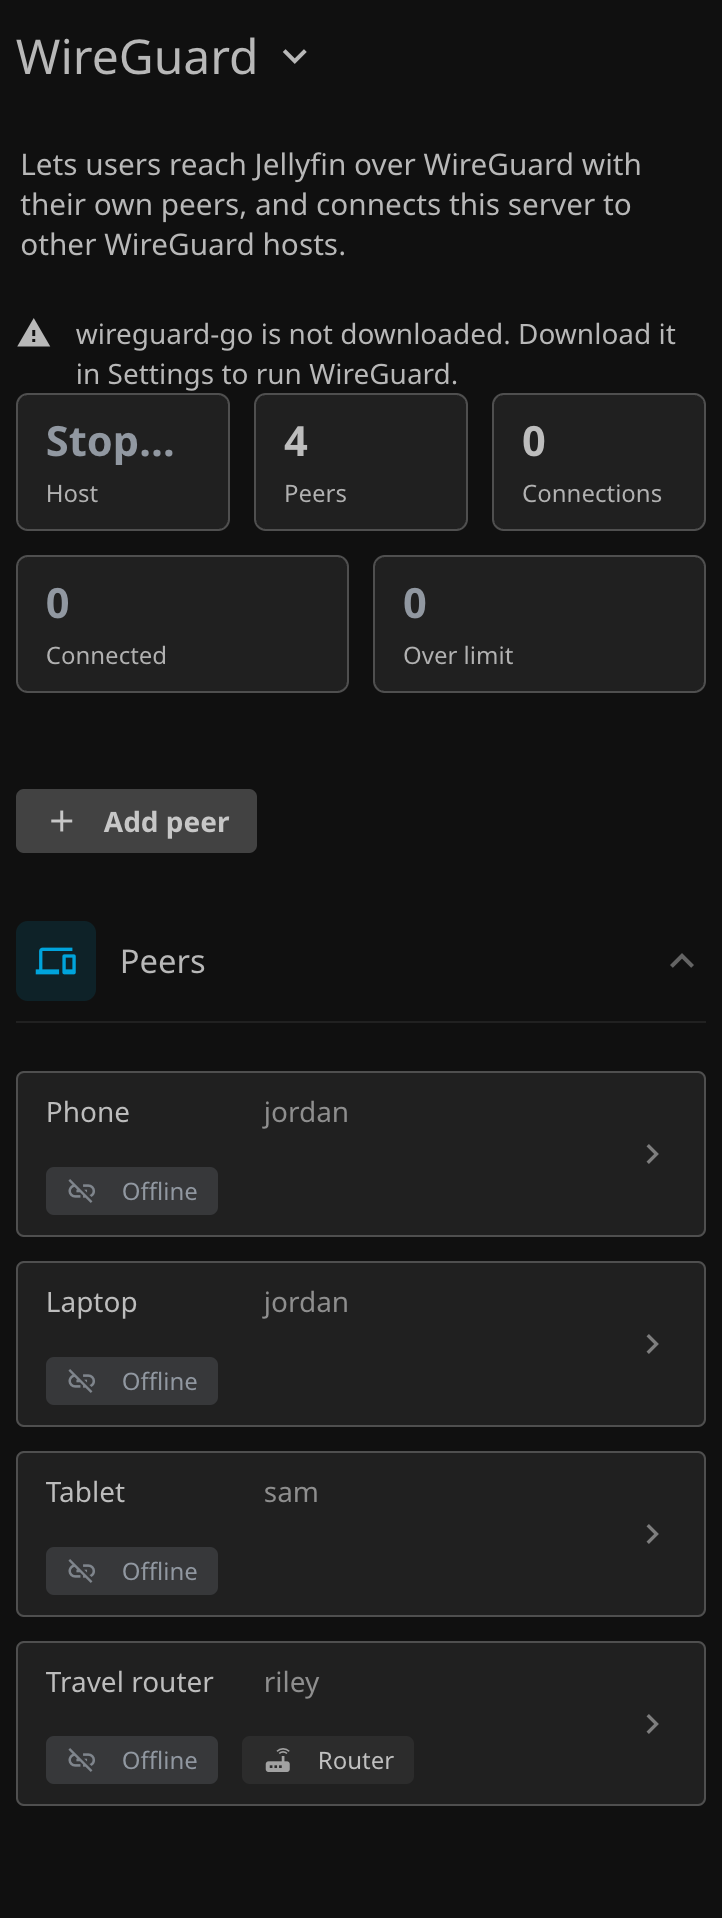
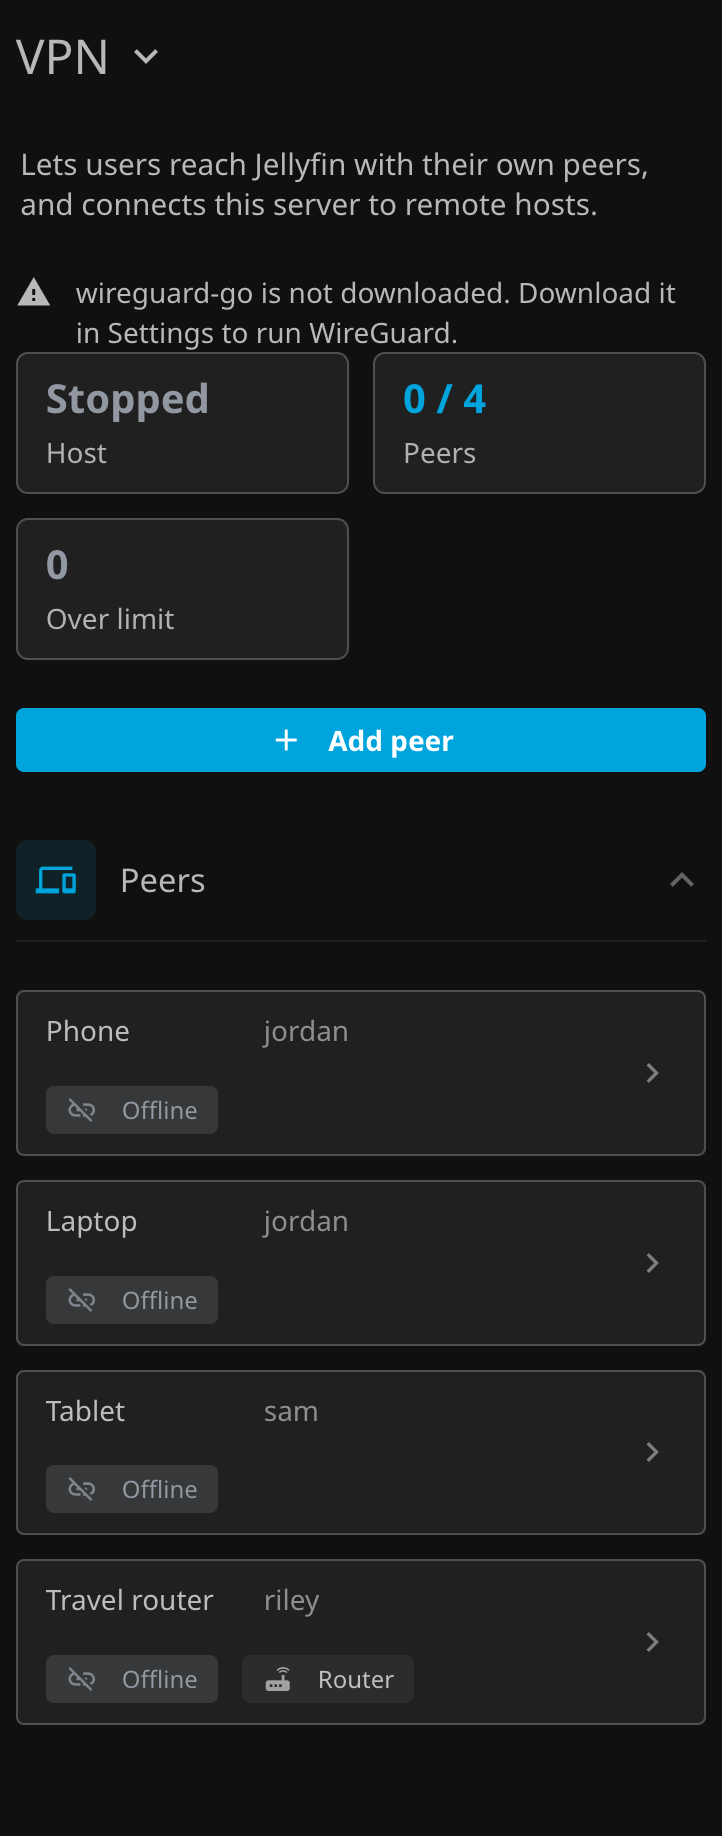
one set of vpn words and tiled editors

diff --git a/Jellyfin.Plugin.Necto/Web/necto_wireguard.js b/Jellyfin.Plugin.Necto/Web/necto_wireguard.js
@@ -42,41 +42,45 @@ export function connectionLimit(cfg, c) {
 }
 
 // countCards
-// Counts what the cards at the top show: peers, connections, how many are connected, and how many are left out.
+// Counts what the cards at the top show: the peers and connections, how many of each are connected, and how many
+// are over their data limit or left out.
 //
 // Inputs
 // cfg [object]: The WireGuard settings.
 // ends [object[]]: The tunnel ends from WireGuard/Peers.
 //
 // Output
-// [object]: { peers, connections, connected, over, refused }.
+// [object]: { peers, connections, peersConnected, connectionsConnected, over, refused }.
 export function countCards(cfg, ends) {
     var list = ends || [];
+    var connected = function (kind) { return list.filter(function (e) { return e.Kind === kind && e.Connected; }).length; };
     return {
         peers: (cfg.Peers || []).length,
         connections: (cfg.Connections || []).length,
-        connected: list.filter(function (e) { return e.Kind !== 'Host' && e.Connected; }).length,
+        peersConnected: connected('Peer'),
+        connectionsConnected: connected('Connection'),
         over: list.filter(function (e) { return e.State === 'OverLimit'; }).length,
         refused: list.filter(function (e) { return e.State === 'NotAllowed' || e.State === 'OverPeerCount'; }).length
     };
 }
 
-// connectCard
-// The Connect card. It follows the Connect to hosts switch, and reads Failed while any connection's tunnel failed.
+// connectionsCard
+// The Connections card: how many connections are connected out of all of them. It is red while any connection's
+// tunnel failed, gray while Connect to hosts is off, and green while one is connected.
 //
 // Inputs
-// t [object]: The strings.
 // cfg [object]: The WireGuard settings.
 // tunnels [object[]]: The running tunnels from WireGuard/Status.
+// counts [object]: What countCards gave.
+// t [object]: The strings.
 //
 // Output
-// [object]: A card, or null when Connect is off and there are no connections.
-export function connectCard(t, cfg, tunnels) {
-    if (!cfg.ConnectEnabled && !(cfg.Connections || []).length) return null;
+// [object]: The card, or null while Connect to hosts is off and there are no connections.
+export function connectionsCard(cfg, tunnels, counts, t) {
+    if (!cfg.ConnectEnabled && !counts.connections) return null;
     var failed = (tunnels || []).some(function (x) { return x.Key !== 'host' && x.State === 'Failed'; });
-    var label = t.tr('WireGuardLabelConnectEnabled');
-    if (!cfg.ConnectEnabled) return { count: t.tr('StateInactive'), label: label, color: 'gray' };
-    return failed ? { count: t.tr('LabelFailed'), label: label, color: 'red' } : { count: t.tr('StateActive'), label: label, color: 'green' };
+    var color = !cfg.ConnectEnabled ? 'gray' : failed ? 'red' : counts.connectionsConnected ? 'green' : 'blue';
+    return { count: counts.connectionsConnected + ' / ' + counts.connections, label: t.tr('HeaderConnections'), color: color };
 }
 
 export default function (view) {
@@ -177,14 +181,14 @@ export default function (view) {
         var host = ends.filter(function (e) { return e.Kind === 'Host'; })[0];
         var cards = [];
         if (w.HostEnabled) cards.push({ count: tunnelStateLabel(t, host ? host.State : 'Stopped'), label: t.tr('LabelServerHost'), color: host && host.State === 'Running' ? 'green' : host && host.State === 'Failed' ? 'red' : 'gray' });
-        var connect = connectCard(t, w, tunnels);
-        if (connect) cards.push(connect);
-        cards.push({ count: counts.peers, label: t.tr('HeaderPeers') });
-        cards.push({ count: counts.connections, label: t.tr('HeaderConnections') });
-        cards.push({ count: counts.connected, label: t.tr('StateConnected'), color: counts.connected ? 'green' : 'gray' });
+        if (w.HostEnabled || counts.peers) cards.push({ count: counts.peersConnected + ' / ' + counts.peers, label: t.tr('HeaderPeers'), color: counts.peersConnected ? 'green' : 'blue' });
+        var connections = connectionsCard(w, tunnels, counts, t);
+        if (connections) cards.push(connections);
         cards.push({ count: counts.over, label: t.tr('WireGuardTagOverLimit'), color: counts.over ? 'red' : 'gray' });
         if (counts.refused) cards.push({ count: counts.refused, label: t.tr('WireGuardCardLeftOut'), color: 'orange' });
         shared.renderCards('wireguardCards', cards);
+        // The counts mean nothing while WireGuard or both of its halves are off, so they hide then.
+        shared.setVisible('wireguardCards', on && (!!w.HostEnabled || !!w.ConnectEnabled));
 
         var hostTunnel = tunnels.filter(function (x) { return x.Key === 'host'; })[0];
         var error = hostTunnel && hostTunnel.State !== 'Running' ? hostTunnel.Error : (on && w.HostEnabled && !hostTunnel && sidecar && sidecar.Installed ? t.tr('WireGuardErrorNoTunnel') : '');
@@ -321,69 +325,59 @@ export default function (view) {
             size: 'large',
             page: page,
             buttons: [
-                { text: t.tr('Edit'), icon: 'edit', className: 'stolon-button secondary', action: function (close) { close(); editPeer(peer); } },
-                { text: t.tr('Download'), icon: 'download', className: 'stolon-button primary', action: function () { if (configText) downloadText(safeFileName(peer.Name) + '.conf', configText); } }
+                { text: t.tr('Edit'), icon: 'edit', className: 'stolon-button stolon-secondary', action: function (close) { close(); editPeer(peer); } },
+                { text: t.tr('Download'), icon: 'download', className: 'stolon-button stolon-primary', action: function () { if (configText) downloadText(safeFileName(peer.Name) + '.conf', configText); } }
             ]
         });
     }
 
     // field
-    // A labelled text or number input, with an optional description and placeholder.
+    // A Stolon input field with its label, an optional description, and a valid example value.
     function field(labelKey, type, value, helpKey, placeholder) {
-        var id = 'necto-wg-' + Math.random().toString(36).slice(2);
-        var input = h('input', { is: 'emby-input', type: type, id: id, autocomplete: 'off', min: type === 'number' ? '0' : null, placeholder: placeholder || null });
-        input.value = value == null ? '' : value;
-        return {
-            element: h('div', { class: 'inputContainer' }, [
-                h('label', { for: id, text: t.tr(labelKey) }),
-                input,
-                helpKey ? h('div', { class: 'fieldDescription', text: t.tr(helpKey) }) : null
-            ]),
-            input: input
-        };
+        return nectoModule.createInputField({
+            label: t.tr(labelKey),
+            type: type,
+            value: value == null ? '' : value,
+            min: type === 'number' ? 0 : undefined,
+            placeholder: placeholder || undefined,
+            autocomplete: 'off',
+            help: helpKey ? t.tr(helpKey) : undefined
+        });
     }
 
     // textArea
-    // A labelled code area with a description.
+    // A Stolon text area in the code font, with its label and description.
     function textArea(labelKey, helpKey, value, placeholder, rows) {
-        var id = 'necto-wg-' + Math.random().toString(36).slice(2);
-        var area = h('textarea', { class: 'stolon-code stolon-code-block', id: id, rows: String(rows || 3), spellcheck: 'false', placeholder: placeholder || null });
-        area.value = value || '';
-        return {
-            element: h('div', { class: 'inputContainer' }, [
-                h('label', { for: id, text: t.tr(labelKey) }),
-                area,
-                h('div', { class: 'fieldDescription', text: t.tr(helpKey) })
-            ]),
-            input: area
-        };
+        var made = nectoModule.createTextareaField({ label: t.tr(labelKey), help: t.tr(helpKey), value: value || '', placeholder: placeholder || undefined, rows: rows || 3 });
+        made.input.classList.add('stolon-mono');
+        made.input.setAttribute('spellcheck', 'false');
+        return made;
     }
 
     // labelled
-    // Puts a control under a label, as a form field.
-    function labelled(labelKey, control, helpKey) {
-        return h('div', { class: 'inputContainer' }, [
-            h('label', { text: t.tr(labelKey) }),
-            control,
-            helpKey ? h('div', { class: 'fieldDescription', text: t.tr(helpKey) }) : null
-        ]);
+    // Puts a compound control, such as an Inherit Field, under its label, as a form field.
+    function labelled(labelKey, control) {
+        return h('div', { class: 'inputContainer' }, [h('label', { text: t.tr(labelKey) }), control]);
     }
 
     // collapsible
-    // A collapsible section holding a group of an editor's fields, closed unless it is the first.
-    function collapsible(titleKey, children, open) {
-        var content = h('div', {}, children.map(function (c) { return c.element || c; }));
-        return nectoModule.createCollapsibleSection({ title: t.tr(titleKey), content: content, collapsed: !open }).element;
+    // A section of an editor's fields, led by its icon tile, its fields a wide gap apart, closed unless it is the first.
+    function collapsible(titleKey, icon, children, open) {
+        var made = nectoModule.createCollapsibleSection({ title: t.tr(titleKey), icon: icon, collapsed: !open });
+        children.forEach(function (c) { made.content.appendChild(c.element || c); });
+        made.content.classList.add('stolon-flow');
+        return made.element;
     }
 
     // inheritSpeed
     // A speed limit in Mbps that takes the default until it is overridden.
     function inheritSpeed(labelKey, own, inherited) {
-        var input = h('input', { is: 'emby-input', type: 'number', min: '0' });
+        var input = h('input', { is: 'emby-input', type: 'number', min: '0', 'aria-label': t.tr(labelKey) });
         var made = nectoModule.createInheritField({
             field: input,
             inheritedValue: inherited || 0,
-            inheritedText: limitText(null, inherited || 0, 'Mbps'),
+            inheritedText: inherited > 0 ? limitText(null, inherited, 'Mbps') : t.tr('LabelNoLimit'),
+            label: t.tr(labelKey),
             value: { inherit: own == null, value: own == null ? (inherited || 0) : own }
         });
         return {
@@ -404,7 +398,8 @@ export default function (view) {
         var made = nectoModule.createInheritField({
             field: limit,
             inheritedValue: inherited,
-            inheritedText: dataText(t, shared, inherited.bytes, inherited.period),
+            inheritedText: inherited.bytes > 0 ? dataText(t, shared, inherited.bytes, inherited.period) : t.tr('LabelNoLimit'),
+            label: t.tr('WireGuardLabelDataLimit'),
             value: { inherit: !own, value: own || inherited }
         });
         return {
@@ -414,6 +409,19 @@ export default function (view) {
                 return v.inherit ? null : v.value;
             }
         };
+    }
+
+    // ownerField
+    // The owner of a peer, picked from the server's users.
+    function ownerField(userId) {
+        var made = nectoModule.createSelectField({
+            label: t.tr('WireGuardLabelOwner'),
+            help: t.tr('WireGuardOwnerHelp'),
+            options: users.map(function (u) { return { value: u.Id, text: u.Name }; })
+        });
+        var match = users.filter(function (u) { return compact(u.Id) === compact(userId); })[0];
+        if (match) made.input.value = match.Id;
+        return made;
     }
 
     // saveRecord
@@ -461,10 +469,10 @@ export default function (view) {
         var peer = existing || { UserId: ApiClient.getCurrentUserId(), Name: '', Address: '', RoutedSubnets: [], Enabled: true, PublicKey: '' };
         var status = h('div', { class: 'stolon-status-text', role: 'status' });
         var name = field('LabelName', 'text', peer.Name, null, t.tr('WireGuardPlaceholderPeerName'));
-        var owner = shared.createUserSelector({ value: peer.UserId, includeEmptyOption: false });
+        var owner = ownerField(peer.UserId);
         var address = field('LabelAddress', 'text', peer.Address, null, t.tr('WireGuardPlaceholderNextFree'));
         var subnets = field('WireGuardLabelRoutedSubnets', 'text', (peer.RoutedSubnets || []).join(', '), 'WireGuardRoutedSubnetsHelp', '192.168.1.0/24');
-        var enabled = nectoModule.createCheckbox({ label: t.tr('LabelEnabled'), checked: peer.Enabled !== false });
+        var enabled = nectoModule.createCheckboxField({ label: t.tr('LabelEnabled'), checked: peer.Enabled !== false });
         var publicKey = field('WireGuardLabelPublicKey', 'text', isNew ? '' : peer.PublicKey, isNew ? 'WireGuardPublicKeyHelp' : null, isNew ? t.tr('WireGuardPlaceholderMadeForYou') : '');
         publicKey.input.readOnly = !isNew;
         var down = inheritSpeed('WireGuardLabelDownloadMbps', peer.DownloadMbps, cfg.PeerDownloadMbps);
@@ -472,16 +480,16 @@ export default function (view) {
         var data = inheritData(peer.DataLimit != null ? { bytes: peer.DataLimit, period: normalizePeriod(peer.DataPeriod) } : null, { bytes: cfg.PeerDataLimit || 0, period: normalizePeriod(cfg.PeerDataPeriod) });
         var body = h('div', {}, [
             status,
-            collapsible('WireGuardHeaderPeer', [name, labelled('WireGuardLabelOwner', owner.element, 'WireGuardOwnerHelp'), address, publicKey, enabled], true),
-            collapsible('HeaderLimits', [down, up, data]),
-            collapsible('TabAdvanced', [subnets])
+            collapsible('WireGuardHeaderPeer', 'devices', [name, owner, address, publicKey, enabled], true),
+            collapsible('HeaderLimits', 'speed', [down, up, data]),
+            collapsible('TabAdvanced', 'tune', [subnets])
         ]);
 
         function read() {
             var d = data.read();
             return {
                 Name: name.input.value.trim(),
-                UserId: owner.getValue(),
+                UserId: owner.input.value,
                 Address: address.input.value.trim(),
                 RoutedSubnets: subnets.input.value.split(',').map(function (s) { return s.trim(); }).filter(Boolean),
                 Enabled: !!enabled.input.checked,
@@ -498,7 +506,6 @@ export default function (view) {
             body: body,
             page: page,
             isNew: isNew,
-            ready: owner.ready,
             serialize: function () { return JSON.stringify(read()); },
             saveText: t.tr('Save'),
             deleteText: t.tr('ButtonRemove'),
@@ -510,8 +517,7 @@ export default function (view) {
                 }
                 return saveRecord('WireGuard/Peers', isNew, peer.Id, values, status);
             },
-            onDelete: function (close) { removeRecord('WireGuard/Peers', peer.Id, peer.Name, 'WireGuardConfirmRemovePeer', close); },
-            onClose: function () { if (owner.destroy) owner.destroy(); }
+            onDelete: function (close) { removeRecord('WireGuard/Peers', peer.Id, peer.Name, 'WireGuardConfirmRemovePeer', close); }
         });
     }
 
@@ -547,7 +553,7 @@ export default function (view) {
             body: body,
             size: 'large',
             page: page,
-            buttons: [{ text: t.tr('Edit'), icon: 'edit', className: 'stolon-button primary', action: function (close) { close(); editConnection(c); } }]
+            buttons: [{ text: t.tr('Edit'), icon: 'edit', className: 'stolon-button stolon-primary', action: function (close) { close(); editConnection(c); } }]
         });
     }
 
@@ -566,18 +572,18 @@ export default function (view) {
         var address = field('WireGuardLabelOurAddress', 'text', c.Address, null, '10.0.0.5');
         var privateKey = field('LabelPrivateKey', 'password', '', 'WireGuardPrivateKeyHelp', c.PrivateKey ? t.tr('WireGuardPlaceholderKept') : t.tr('WireGuardPlaceholderMadeForYou'));
         var forwards = textArea('WireGuardLabelForwards', 'WireGuardForwardsHelp', (c.Forwards || []).map(function (f) { return f.LocalPort + ' ' + f.RemoteHost + ':' + f.RemotePort; }).join('\n'), '18096 10.0.0.1:8096', 3);
-        var enabled = nectoModule.createCheckbox({ label: t.tr('LabelEnabled'), checked: c.Enabled !== false });
+        var enabled = nectoModule.createCheckboxField({ label: t.tr('LabelEnabled'), checked: c.Enabled !== false });
         var keepalive = field('WireGuardLabelKeepalive', 'number', c.Keepalive, null, '25');
         var down = inheritSpeed('WireGuardLabelDownloadMbps', c.DownloadMbps, cfg.ConnectionDownloadMbps);
         var up = inheritSpeed('WireGuardLabelUploadMbps', c.UploadMbps, cfg.ConnectionUploadMbps);
         var data = inheritData(c.DataLimit != null ? { bytes: c.DataLimit, period: normalizePeriod(c.DataPeriod) } : null, { bytes: cfg.ConnectionDataLimit || 0, period: normalizePeriod(cfg.ConnectionDataPeriod) });
         var body = h('div', {}, [
             status,
-            collapsible('WireGuardHeaderImport', [importArea]),
-            collapsible('WireGuardHeaderConnection', [name, endpoint, peerKey, psk, address, privateKey, enabled], true),
-            collapsible('WireGuardLabelForwards', [forwards]),
-            collapsible('HeaderLimits', [down, up, data]),
-            collapsible('TabAdvanced', [keepalive])
+            collapsible('WireGuardHeaderConnection', 'link', [name, endpoint, peerKey, psk, address, privateKey, enabled], true),
+            collapsible('WireGuardHeaderImport', 'content_paste', [importArea]),
+            collapsible('WireGuardLabelForwards', 'swap_horiz', [forwards]),
+            collapsible('HeaderLimits', 'speed', [down, up, data]),
+            collapsible('TabAdvanced', 'tune', [keepalive])
         ]);
 
         importArea.input.addEventListener('input', function () {

diff --git a/Jellyfin.Plugin.Necto/Web/necto_wireguard.html b/Jellyfin.Plugin.Necto/Web/necto_wireguard.html
@@ -7,7 +7,7 @@
     <div data-role="content">
         <div class="content-primary">
             <div class="verticalSection verticalSection-extrabottompadding">
-                <div class="fieldDescription" data-str="WireGuardHelpTool">Lets users reach Jellyfin over WireGuard with their own peers, and connects this server to other WireGuard hosts.</div>
+                <div class="fieldDescription" data-str="WireGuardHelpTool">Lets users reach Jellyfin with their own peers, and connects this server to remote hosts.</div>
                 <div id="wireguardStatus" class="stolon-status-text" role="status"></div>
 
                 <!-- Off -->
@@ -17,7 +17,7 @@
 
                 <div id="wireguardBody" class="stolon-stack stolon-hidden">
                     <!-- Counts -->
-                    <div id="wireguardCards" class="stolon-cards"></div>
+                    <div id="wireguardCards" class="stolon-cards stolon-even"></div>
                     <div id="hostError" class="stolon-warn stolon-hidden"></div>
 
                     <!-- Both off -->
@@ -25,11 +25,11 @@
                     <div id="wireguardBothOff" class="stolon-hidden"></div>
 
                     <div class="stolon-button-row" id="addButtons">
-                        <button is="emby-button" type="button" id="btnAddPeer" class="raised stolon-button primary fill stolon-hidden">
+                        <button is="emby-button" type="button" id="btnAddPeer" class="raised stolon-button stolon-primary stolon-fill stolon-hidden">
                             <span class="material-icons" aria-hidden="true">add</span>
                             <span data-str="WireGuardButtonAddPeer">Add peer</span>
                         </button>
-                        <button is="emby-button" type="button" id="btnAddConnection" class="raised stolon-button secondary fill stolon-hidden">
+                        <button is="emby-button" type="button" id="btnAddConnection" class="raised stolon-button stolon-secondary stolon-fill stolon-hidden">
                             <span class="material-icons" aria-hidden="true">add_link</span>
                             <span data-str="WireGuardButtonAddConnection">Add connection</span>
                         </button>

diff --git a/docs/VPN.md b/docs/VPN.md
@@ -76,13 +76,13 @@ A connection over its data limit stops until its period starts over.
 
 ## The VPN Tool
 
-While WireGuard is off, the tool reads "WireGuard is off. Turn it on in Settings to add peers." While **Host peers** and **Connect to hosts** are both off and there is nothing to list, it reads "Turn on Host peers or Connect to hosts in Settings to add peers." While wireguard-go is not downloaded, a warning says so.
+While VPN is off, the tool reads "VPN is off. Turn it on in Settings to add peers." While **Host peers** and **Connect to hosts** are both off and there is nothing to list, it reads "Peers and connections are off. Turn them on in Settings to add them." The count cards hide in both cases. While wireguard-go is not downloaded, a warning says so.
 
 | WireGuard | WireGuard on a phone |
 | :---: | :---: |
 | ![VPN](screenshots/WireGuard.png) | ![VPN on a phone](screenshots/WireGuard%20Phone.png) |
 
-The cards at the top show the host's state and whether **Connect to hosts** is active, or **Failed** while any connection failed, and count the peers, the connections, how many are connected, and how many are over their data limit. **Left out** counts the peers their owners' groups leave out, while there are any. When the host cannot start, the reason shows under the cards. **Add peer** shows while the host is on, and **Add connection** while connecting is on.
+The cards at the top show the host's state, how many **Peers** and **Connections** are connected out of all of them, and how many are over their data limit. **Connections** turns red while any connection failed and gray while **Connect to hosts** is off. **Left out** counts the peers their owners' groups leave out, while there are any. When the host cannot start, the reason shows under the cards. **Add peer** shows while the host is on, and **Add connection** while connecting is on.
 
 ### Peers
 
@@ -92,10 +92,10 @@ Each peer shows its owner, with tags for its state, address, where it connects f
 
 Select a peer to open its details in a sidecar, with its status, owner, address, child networks, last handshake, source, usage, and speed limit. The sidecar shows the peer's config file and a QR code of it. **Download** saves the config file, and **Edit** opens the editor.
 
-The peer editor has three sections.
+The peer editor has three sections, each led by an icon.
 
 * **Peer**. **Name**, **Owner**, **Address**, **Public key**, and **Enabled**. A blank address takes the next free one. A blank public key makes a new key pair, which needs wireguard-go.
-* **Limits**. **Download speed (Mbps)**, **Upload speed (Mbps)**, and **Data limit**, each the default unless overridden.
+* **Limits**. **Download speed (Mbps)**, **Upload speed (Mbps)**, and **Data limit**, each the default unless overridden. **Inherit** reads **No limit** while the default sets none.
 * **Advanced**. **Child networks**, the networks behind a router that does not NAT. Leave it blank for a single device.
 
 A peer that brought its own public key gets a config file without a private key, for the device to fill in. **Remove** asks first. The peer's config file stops working.
@@ -106,12 +106,12 @@ While the host is on, this server leads the list, named after the server and pla
 
 Select a connection to open its details, with its status, remote host, this server's address, forwards, last handshake, last error, usage, and speed limit. **This server's public key** has a Copy button. Give it to the remote host.
 
-The connection editor has five sections.
+The connection editor has five sections, each led by an icon.
 
-* **Import a config**. Paste a WireGuard config file to fill in the fields below.
 * **Connection**. **Name**, **Remote host**, **Remote public key**, **Preshared key**, **This server's address**, **Private key**, and **Enabled**. A blank private key keeps the saved one, or makes a new one for a new connection.
+* **Import a config**. Paste a WireGuard config file to fill in the connection's fields.
 * **Forwards**. One per line, as the local port, a space, then the remote host and port, such as `18096 10.0.0.1:8096`. Each opens on `127.0.0.1` only.
-* **Limits**. **Download speed (Mbps)**, **Upload speed (Mbps)**, and **Data limit**, each the default unless overridden.
+* **Limits**. **Download speed (Mbps)**, **Upload speed (Mbps)**, and **Data limit**, each the default unless overridden. **Inherit** reads **No limit** while the default sets none.
 * **Advanced**. **Keepalive (seconds)**.
 
 ## Permissions
